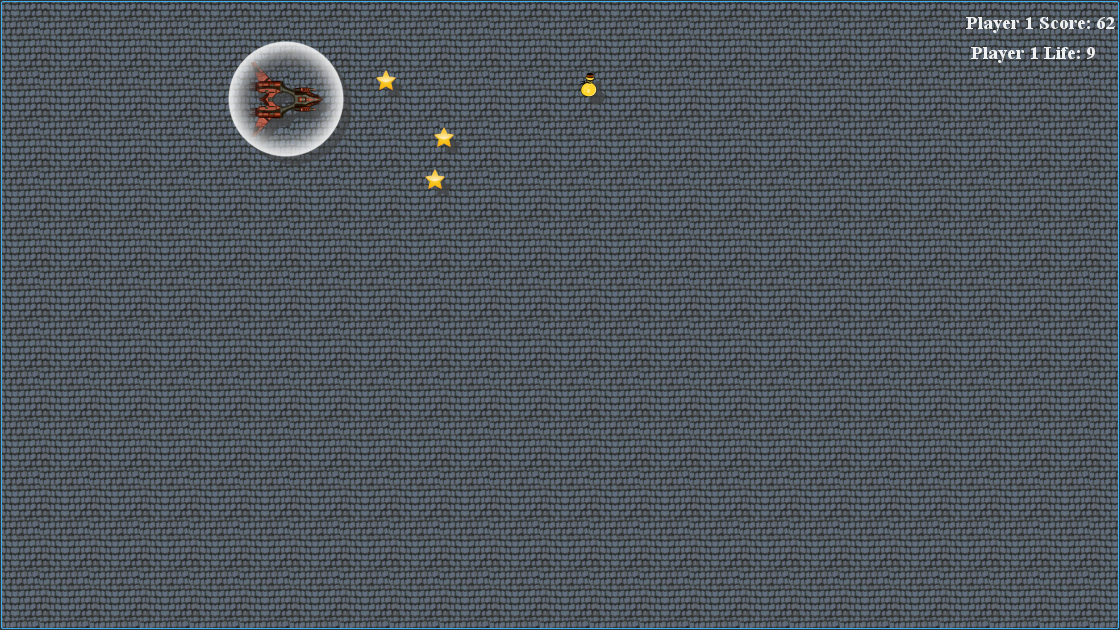
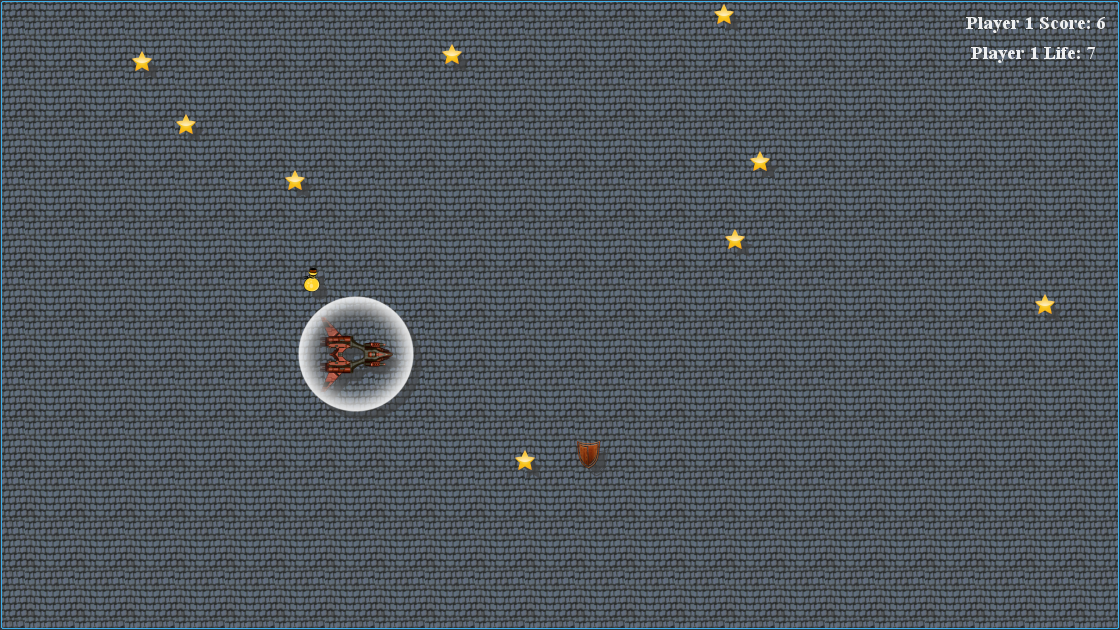
Project Update

diff --git a/Sources/Source Files/Widgets/MyGame.cpp b/Sources/Source Files/Widgets/MyGame.cpp
@@ -65,6 +65,7 @@ void MyGame::restart() {
 		setSceneRect(viewport()->frameGeometry());
 		bld_stg1();
 		bld_stg2();
+		bld_stg3();
 	}
 //	else if(tmp == "1") {
 //
@@ -102,7 +103,7 @@ void MyGame::pause() {
 			if (dynamic_cast<MyAlien *>(i)) {
 				dynamic_cast<MyAlien *>(i)->game_paused();
 			}
-			else if (dynamic_cast<MyShip *>(i)) {
+			if (dynamic_cast<MyShip *>(i)) {
 				dynamic_cast<MyShip *>(i)->game_paused();
 			}
 		}
@@ -119,7 +120,7 @@ void MyGame::unpause() {
 			if (dynamic_cast<MyAlien *>(i)) {
 				dynamic_cast<MyAlien *>(i)->game_unpaused();
 			}
-			else if (dynamic_cast<MyShip *>(i)) {
+			if (dynamic_cast<MyShip *>(i)) {
 				dynamic_cast<MyShip *>(i)->game_unpaused();
 			}
 		}
@@ -128,7 +129,7 @@ void MyGame::unpause() {
 
 void MyGame::bld_stg1() {
 	for (int i = 0; i < 20 + 10 * SettingData::gDiff; i++) {
-		MyAsteroid *tmp = new MyAsteroid();
+		MyAsteroid *tmp = new MyAsteroid(1);
 		tmp->setPos(MyRes::app_size.width() +
 		            (rand() % ((MyRes::gm_drtn / MyRes::frm_dly) - MyRes::astrd_size.width() + 1)),
 		            (rand() % (MyRes::app_size.height() - MyRes::astrd_size.height() + 1)));
@@ -216,6 +217,15 @@ void MyGame::bld_stg2() {
 }
 
 void MyGame::bld_stg3() {
+	for (int i = 0; i < 20 + 10 * SettingData::gDiff; i++) {
+		MyAsteroid *tmp = new MyAsteroid(2);
+		tmp->setPos(MyRes::app_size.width() +
+		            (MyRes::app_size.width() + (MyRes::gm_drtn / MyRes::frm_dly) + MyRes::app_size.width()) +
+		            (MyRes::app_size.width() + (MyRes::gm_drtn / MyRes::frm_dly) + MyRes::app_size.width()) +
+		            (rand() % ((MyRes::gm_drtn / MyRes::frm_dly) - MyRes::astrd_size.width() + 1)),
+		            (rand() % (MyRes::app_size.height() - MyRes::astrd_size.height() + 1)));
+		scene()->addItem(tmp);
+	}
 	for (int i = 0; i < 3; i++) {
 		MyLife *tmp = new MyLife();
 		tmp->setPos(MyRes::app_size.width() +

diff --git a/Sources/Source Files/Game Objects/MyAsteroid.cpp b/Sources/Source Files/Game Objects/MyAsteroid.cpp
@@ -4,13 +4,23 @@
 
 #include <Sources/Headers/Game Objects/MyAsteroid.h>
 
-MyAsteroid::MyAsteroid() :
+MyAsteroid::MyAsteroid(int typ) :
 		QGraphicsPixmapItem(), QObject() {
 	astrd_frms = new QPixmap *[MyRes::astrd_frcnt];
 	astrd_num = rand() % MyRes::astrd_typcnt;
 	frm_num = 0;
 	setGraphicsEffect(new QGraphicsDropShadowEffect());
-	vlc = new QPointF(-10, 0);
+	if (typ == 1) {
+		vlc = new QPointF(-10, 0);
+	}
+	else {
+		if (rand() % 2 == 0) {
+			vlc = new QPointF(-10, -10);
+		}
+		else {
+			vlc = new QPointF(-10, 10);
+		}
+	}
 	for (int i = 0; i < MyRes::astrd_frcnt; i++) {
 		astrd_frms[i] = new QPixmap(MyRes::astrd_adds[astrd_num][i]);
 	}
@@ -29,5 +39,18 @@ void MyAsteroid::updt() {
 	frm_num = (frm_num + 1) % (3 * MyRes::astrd_frcnt);
 	setPixmap(astrd_frms[(frm_num / 3) % MyRes::astrd_frcnt]->scaled(MyRes::astrd_size, Qt::KeepAspectRatio,
 	                                                                 Qt::SmoothTransformation));
-	setPos(pos().x() + vlc->x(), pos().y() + vlc->y());
+	QPointF tplft(scene()->views().first()->viewport()->mapToParent(
+			scene()->views().first()->mapFromScene(mapToScene(boundingRect().topLeft()))));
+	QPointF bttmrght(scene()->views().first()->viewport()->mapToParent(
+			scene()->views().first()->mapFromScene(mapToScene(boundingRect().bottomRight()))));
+	QRectF vw_rct(scene()->views().first()->viewport()->rect());
+	setPos(pos().x() + vlc->x(), pos().y());
+	if ((tplft.y() + vlc->y() >= 0 && bttmrght.y() + vlc->y() <= vw_rct.height()) ||
+	    (tplft.y() + vlc->y() < 0 && vlc->y() > 0) ||
+	    (bttmrght.y() + vlc->y() > vw_rct.height() && vlc->y() < 0)) {
+		setPos(pos().x(), pos().y() + vlc->y());
+	}
+	else {
+		vlc->setY(vlc->y() * (-1));
+	}
 }

diff --git a/Sources/Headers/Game Objects/MyAsteroid.h b/Sources/Headers/Game Objects/MyAsteroid.h
@@ -7,6 +7,8 @@
 
 #include <QGraphicsDropShadowEffect>
 #include <QGraphicsPixmapItem>
+#include <QGraphicsView>
+#include <QGraphicsScene>
 #include <QElapsedTimer>
 #include <QPointF>
 #include <QPixmap>
@@ -16,7 +18,7 @@ class MyAsteroid : public QObject, public QGraphicsPixmapItem {
 Q_OBJECT
 
 public:
-	MyAsteroid();
+	MyAsteroid(int);
 
 	~MyAsteroid();
 
@@ -26,6 +28,7 @@ private:
 	int astrd_num;
 	int frm_num;
 
+//	int typ;
 //	bool grv;
 
 //	int mss;
